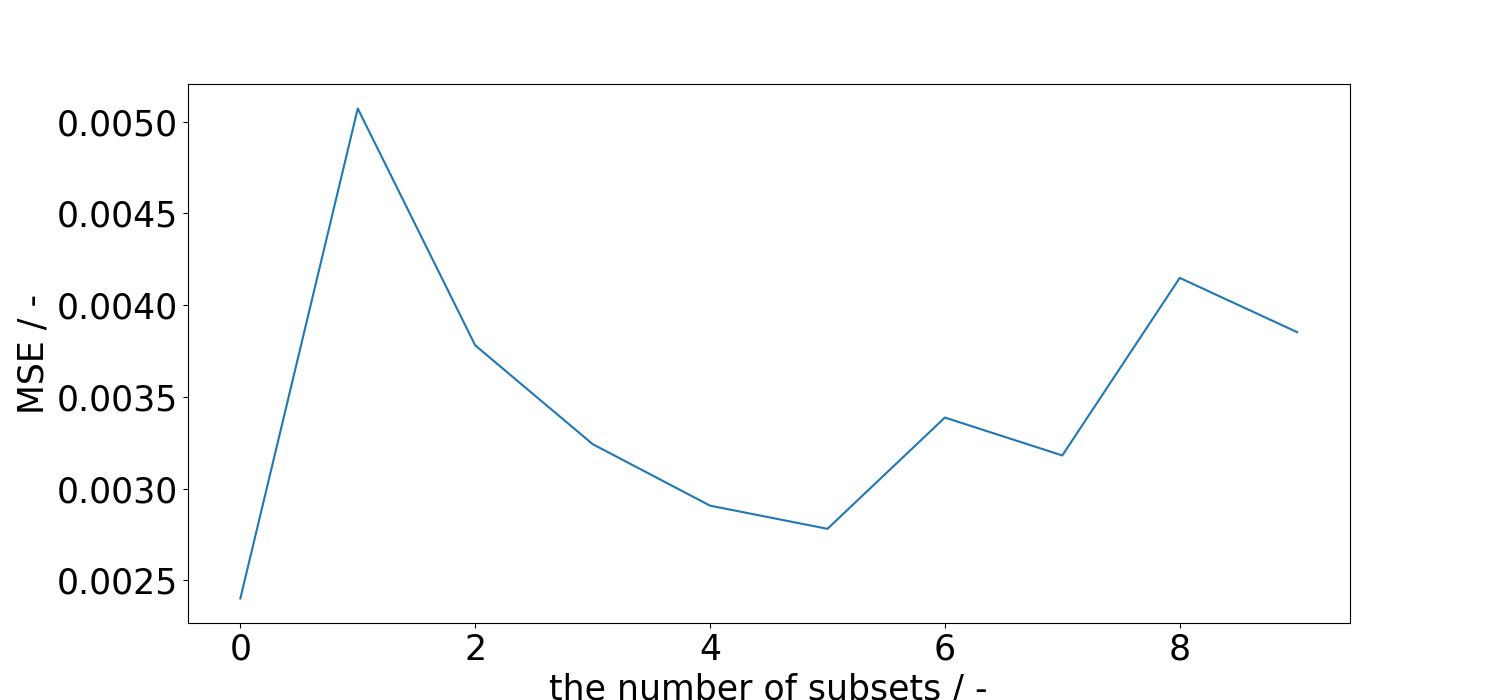
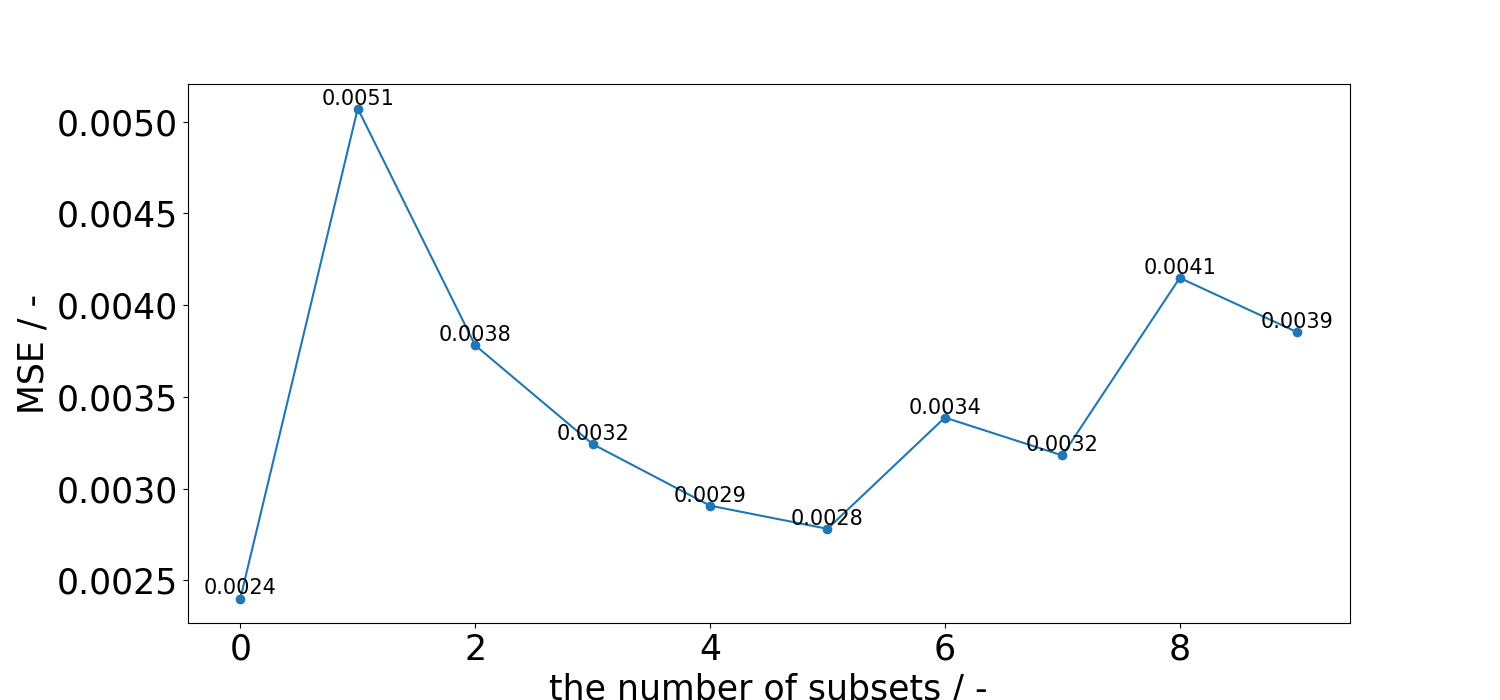
2024/11/20 11:30 修改bagging

diff --git a/notebook/bagging.py b/notebook/bagging.py
@@ -1,4 +1,4 @@
-from os import path, listdir, makedirs
+from os import path, listdir
 import sys
 sys.path.append('../') # 查找模組，是將上層目錄 (../) 添加到 Python 的模組搜索路徑中。
 from utils.data_io import (
@@ -11,49 +11,60 @@ from tqdm import tqdm # 顯示進度條，看到任務的完成進度。
 import numpy as np
 from sklearn.metrics import mean_squared_error as mse
 
-# 目錄設置
-target = 'sru'
-print(target)
-write_out_dir = '../reports/result'
-write_result_out_dir = path.join(write_out_dir, 'bagging', target)
+def bagging(write_out_dir, target):
+    '''
+    bagging集成式學習的預測結果
+    '''
+    print(target)
+    write_result_out_dir = path.join(write_out_dir, target)
+    print(f'bagging output directory: {write_result_out_dir}')
 
-# load dataset (載入數據集)
-data_dir_path = path.join('..', 'dataset', 'target', target)
-X_train, y_train, X_test, y_test = \
-    read_data_from_dataset(data_dir_path)
+    # load dataset (載入數據集)
+    data_dir_path = path.join('..', 'dataset', 'target', target)
+    X_train, y_train, X_test, y_test = \
+        read_data_from_dataset(data_dir_path)
 
-period = (len(y_train) + len(y_test)) // 30
-RPG = ReccurentPredictingGenerator(X_test, batch_size=1, timesteps=period) # 將batch_size設為1，逐條處理測試數據，記錄每筆數據的預測結果。
-prediction = [] # 用於存儲每個模型的預測值
+    period = (len(y_train) + len(y_test)) // 30
+    RPG = ReccurentPredictingGenerator(X_test, batch_size=1, timesteps=period) # 將batch_size設為1，逐條處理測試數據，記錄每筆數據的預測結果。
+    prediction = [] # 用於存儲每個模型的預測值
 
-# 加載模型並生成預測
-for path_model in tqdm(listdir(path.join(write_result_out_dir, 'model'))):
-    file_path = path.join(write_result_out_dir, 'model', path_model)
-    best_model = load_model(file_path)
-    y_test_pred = best_model.predict_generator(RPG) # 獲取模型對測試數據的預測值。
-    prediction.append(y_test_pred)
+    # 加載模型並生成預測
+    for path_model in tqdm(listdir(path.join(write_result_out_dir, 'model'))):
+        file_path = path.join(write_result_out_dir, 'model', path_model)
+        print(f'Using Model Name: {target} の {path_model} \n {file_path}')
+        best_model = load_model(file_path)
+        y_test_pred = best_model.predict_generator(RPG) # 獲取模型對測試數據的預測值。
+        prediction.append(y_test_pred)
 
-# 計算預測結果的準確度，並保存所有的預測數據。集成所有預測結果。
-prediction = np.array(prediction) # 轉換為NumPy陣列，形狀為 (模型數量, 測試數據大小, 預測特徵數=1)。 # 單變量預測結果
-print(f'prediction.shape: {prediction.shape}')
-list_score = [] # 存儲每次計算的均方誤差（MSE）。
-size_test = prediction.shape[1] # 測試數據的樣本數量。
-y_test = y_test[-size_test:] # 將 y_test 修正為與 size_test 長度相同，確保測試標籤與預測數據對齊。
-for i_prediction in range(prediction.shape[0]): # [:1]若僅只包含第0個模型的預測結果。
-    pred = np.mean(prediction[:i_prediction + 1], axis=0) # 取第0個模型到第i_prediction個模型的預測，並取平均值作為集成預測結果，即集成預測值。
-    print(f'y_test.shape: {y_test.shape}, pred.shape: {pred.shape}')
-    accuracy = mse(y_test, pred.flatten()) # 與 y_test 的形狀一致
-    list_score.append(accuracy)
+    # 計算預測結果的準確度，並保存所有的預測數據。集成所有預測結果。
+    prediction = np.array(prediction) # 轉換為NumPy陣列，形狀為 (模型數量, 測試數據大小, 預測特徵數=1)。 # 單變量預測結果
+    print(f'prediction.shape: {prediction.shape}')
+    list_score = [] # 存儲每次計算的均方誤差（MSE）。
+    size_test = prediction.shape[1] # 測試數據的樣本數量。
+    y_test = y_test[-size_test:] # 將 y_test 修正為與 size_test 長度相同，確保測試標籤與預測數據對齊。
+    for i_prediction in range(prediction.shape[0]): # [:1]若僅只包含第0個模型的預測結果。
+        pred = np.mean(prediction[:i_prediction + 1], axis=0) # 取第0個模型到第i_prediction個模型的預測，並取平均值作為集成預測結果，即集成預測值。
+        print(f'y_test.shape: {y_test.shape}, pred.shape: {pred.shape}')
+        accuracy = mse(y_test, pred.flatten()) # 與 y_test 的形狀一致
+        list_score.append(accuracy)
 
-np.save( path.join(write_result_out_dir, target), prediction) # 將所有的預測結果保存為NumPy檔案(.npy)，可用np.load讀取資料。
+    np.save( path.join(write_result_out_dir, target), prediction) # 將所有的預測結果保存為NumPy檔案(.npy)，可用np.load讀取資料。
 
-plt.rcParams['font.size'] = 25 # 設定字體大小
-plt.figure(figsize=(15, 7)) # 建立圖表
-print(f'總共有 {len(list_score)} 個預測的準確率。')
-print(f'list_score: {list_score}')
-plt.plot(list_score) # 繪製折線圖
-plt.xlabel('the number of subsets / -') # 為X軸添加標籤，表示子集數量。
-plt.ylabel('MSE / -') # 為Y軸添加標籤，表示均方誤差（MSE）。
-plt.savefig( path.join(write_result_out_dir, 'bagging_sru') ) # 保存圖表
+    plt.rcParams['font.size'] = 25 # 設定字體大小
+    plt.figure(figsize=(15, 7)) # 建立圖表
+    print(f'總共有 {len(list_score)} 個預測的準確率。')
+    print(f'list_score: {list_score}')
+    plt.plot(list_score, marker='o') # 繪製折線圖，並使用圓形標記每個點
+    # 在圖中為每個點標註數值
+    for i, score in enumerate(list_score):
+        plt.text(i, score, f'{score:.4f}', fontsize=15, ha='center', va='bottom')  # 設置數值格式和對齊方式
+    plt.xlabel('the number of subsets / -') # 為X軸添加標籤，表示子集數量。
+    plt.ylabel('MSE / -') # 為Y軸添加標籤，表示均方誤差（MSE）。
+    plt.savefig( path.join(write_result_out_dir, 'bagging_sru') ) # 保存圖表
 
-print('おしまい')
+def start_bagging(folder_name = 'bagging'):
+    write_out_dir = path.join('../reports/result/', folder_name) # 目錄設置
+    folders = [f for f in listdir(write_out_dir) if path.isdir(path.join(write_out_dir, f))]
+    for target in folders:
+        bagging(write_out_dir, target)
+    print('おしまい')
